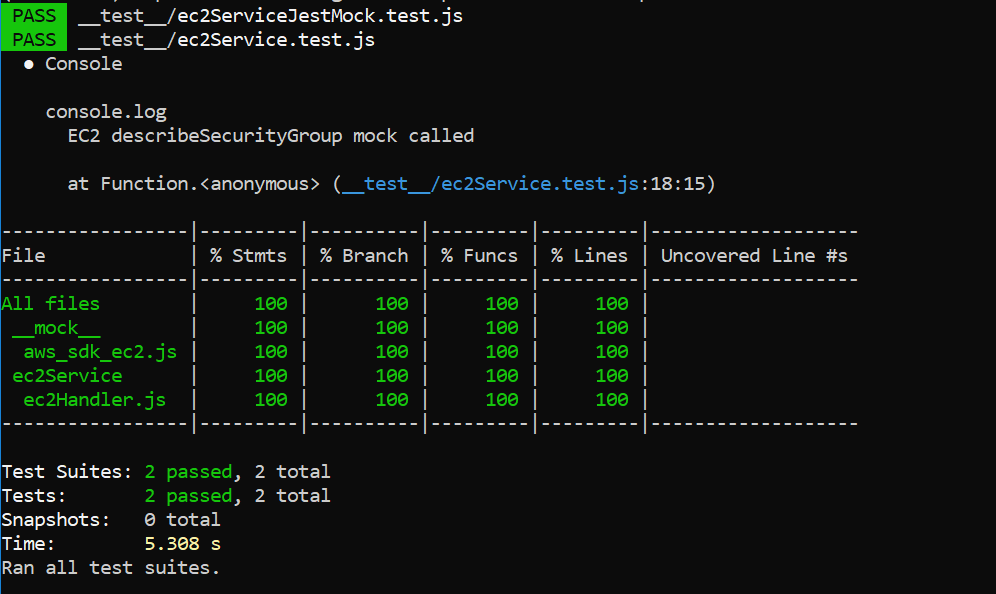
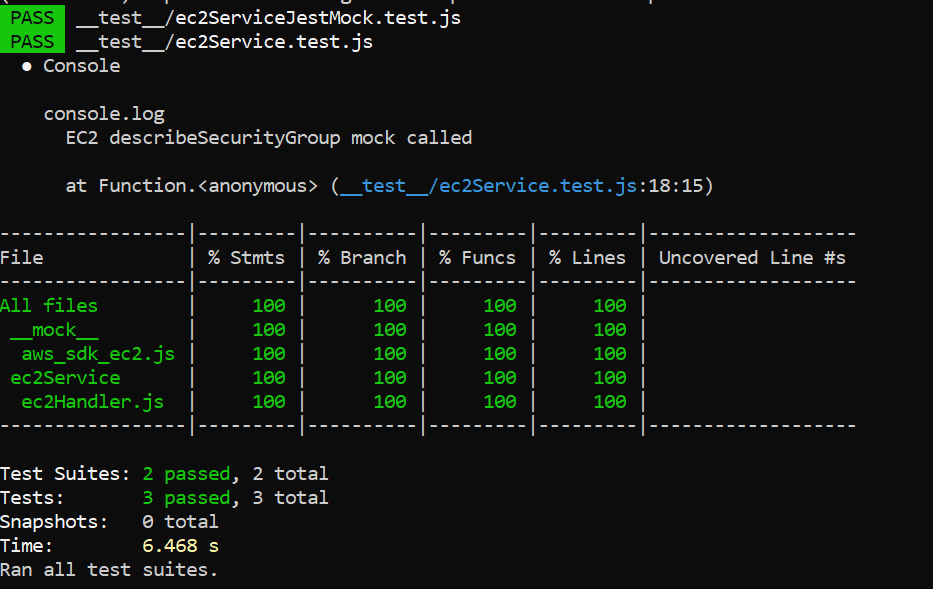
other changes

diff --git a/__test__/ec2ServiceJestMock.test.js b/__test__/ec2ServiceJestMock.test.js
@@ -32,4 +32,20 @@ describe('Unit tests', () => {
     expect(result.body).toStrictEqual(JSON.stringify({ result: mockResult }));
     expect(mockEC2describeSecurityGroups).toHaveBeenCalled();
   });
+
+  it('using jest mock fn to catch error', async () => {
+    const mockResult = 'Error! Retrieving security group details failed.';
+    // eslint-disable-next-line arrow-body-style
+    mockEC2describeSecurityGroups.mockImplementation(() => {
+      return {
+        promise() {
+          return Promise.reject(mockResult);
+        },
+      };
+    });
+    const result = await handler.details();
+    expect(result.body).toStrictEqual(JSON.stringify({ result: mockResult }));
+    expect(result.statusCode).toStrictEqual(500);
+    expect(mockEC2describeSecurityGroups).toHaveBeenCalled();
+  });
 });

diff --git a/ec2Service/ec2Handler.js b/ec2Service/ec2Handler.js
@@ -1,4 +1,4 @@
-import * as AWS from 'aws-sdk';
+const AWS = require('aws-sdk');
 
 async function details() {
   try {
